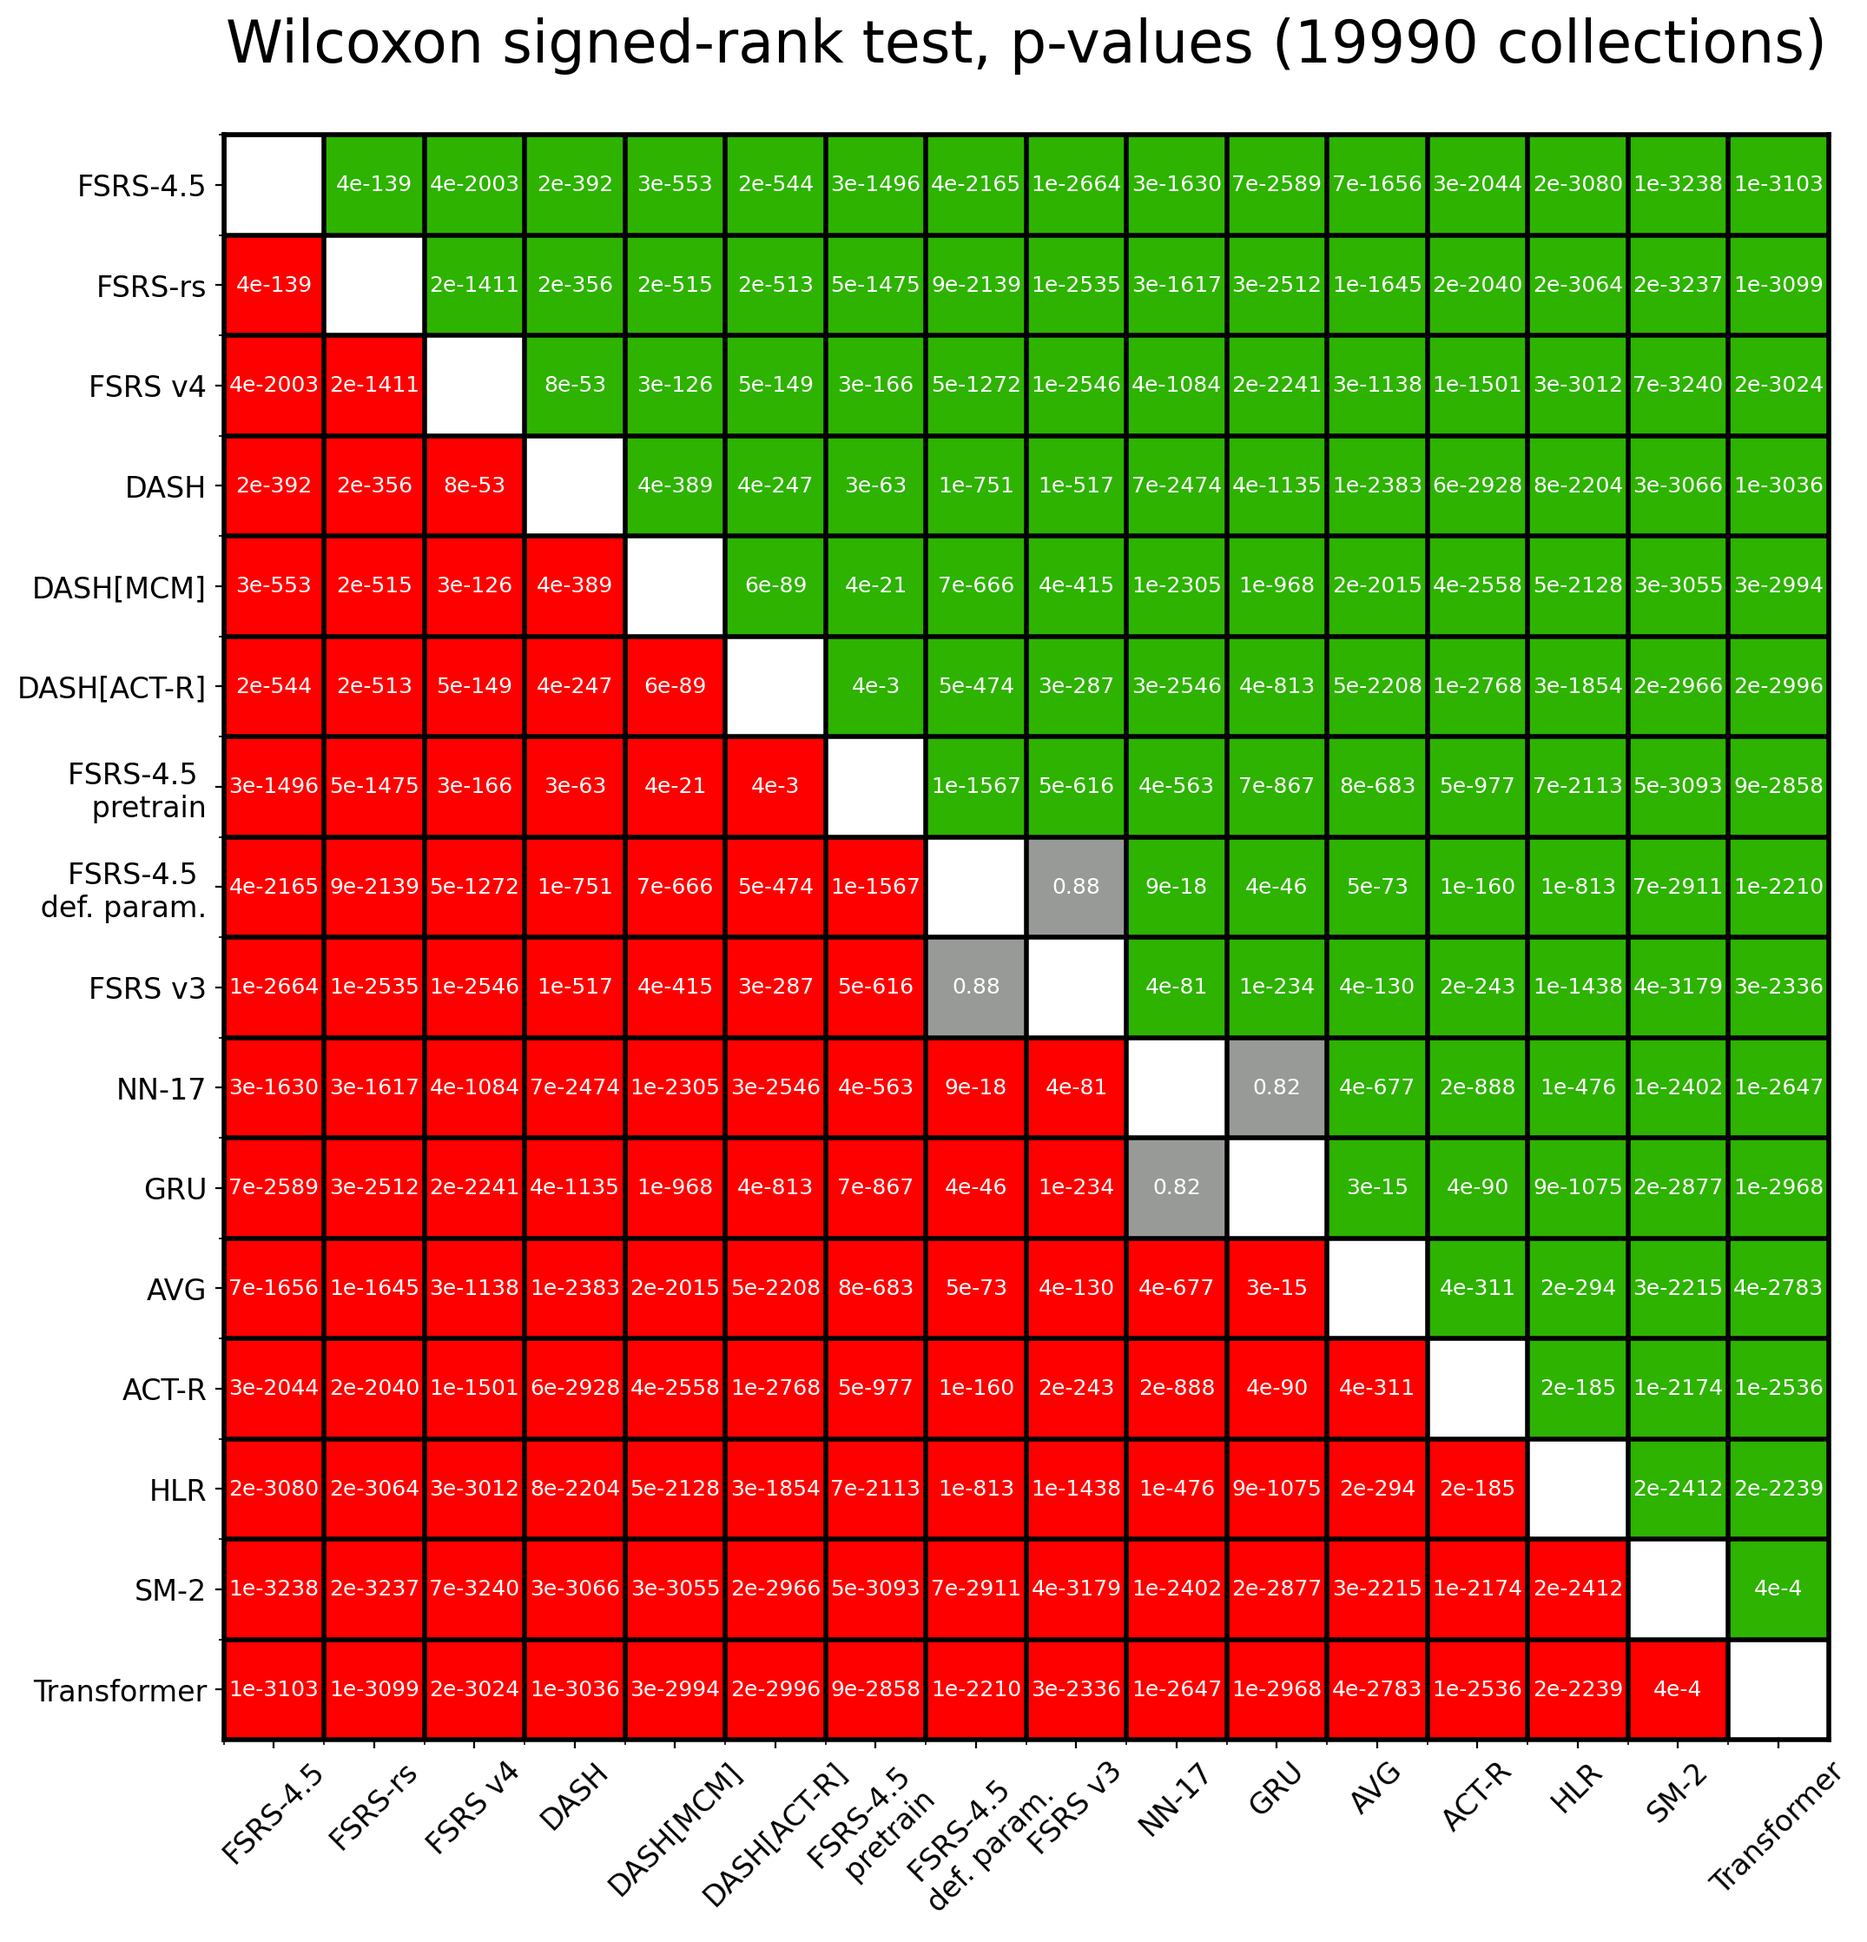
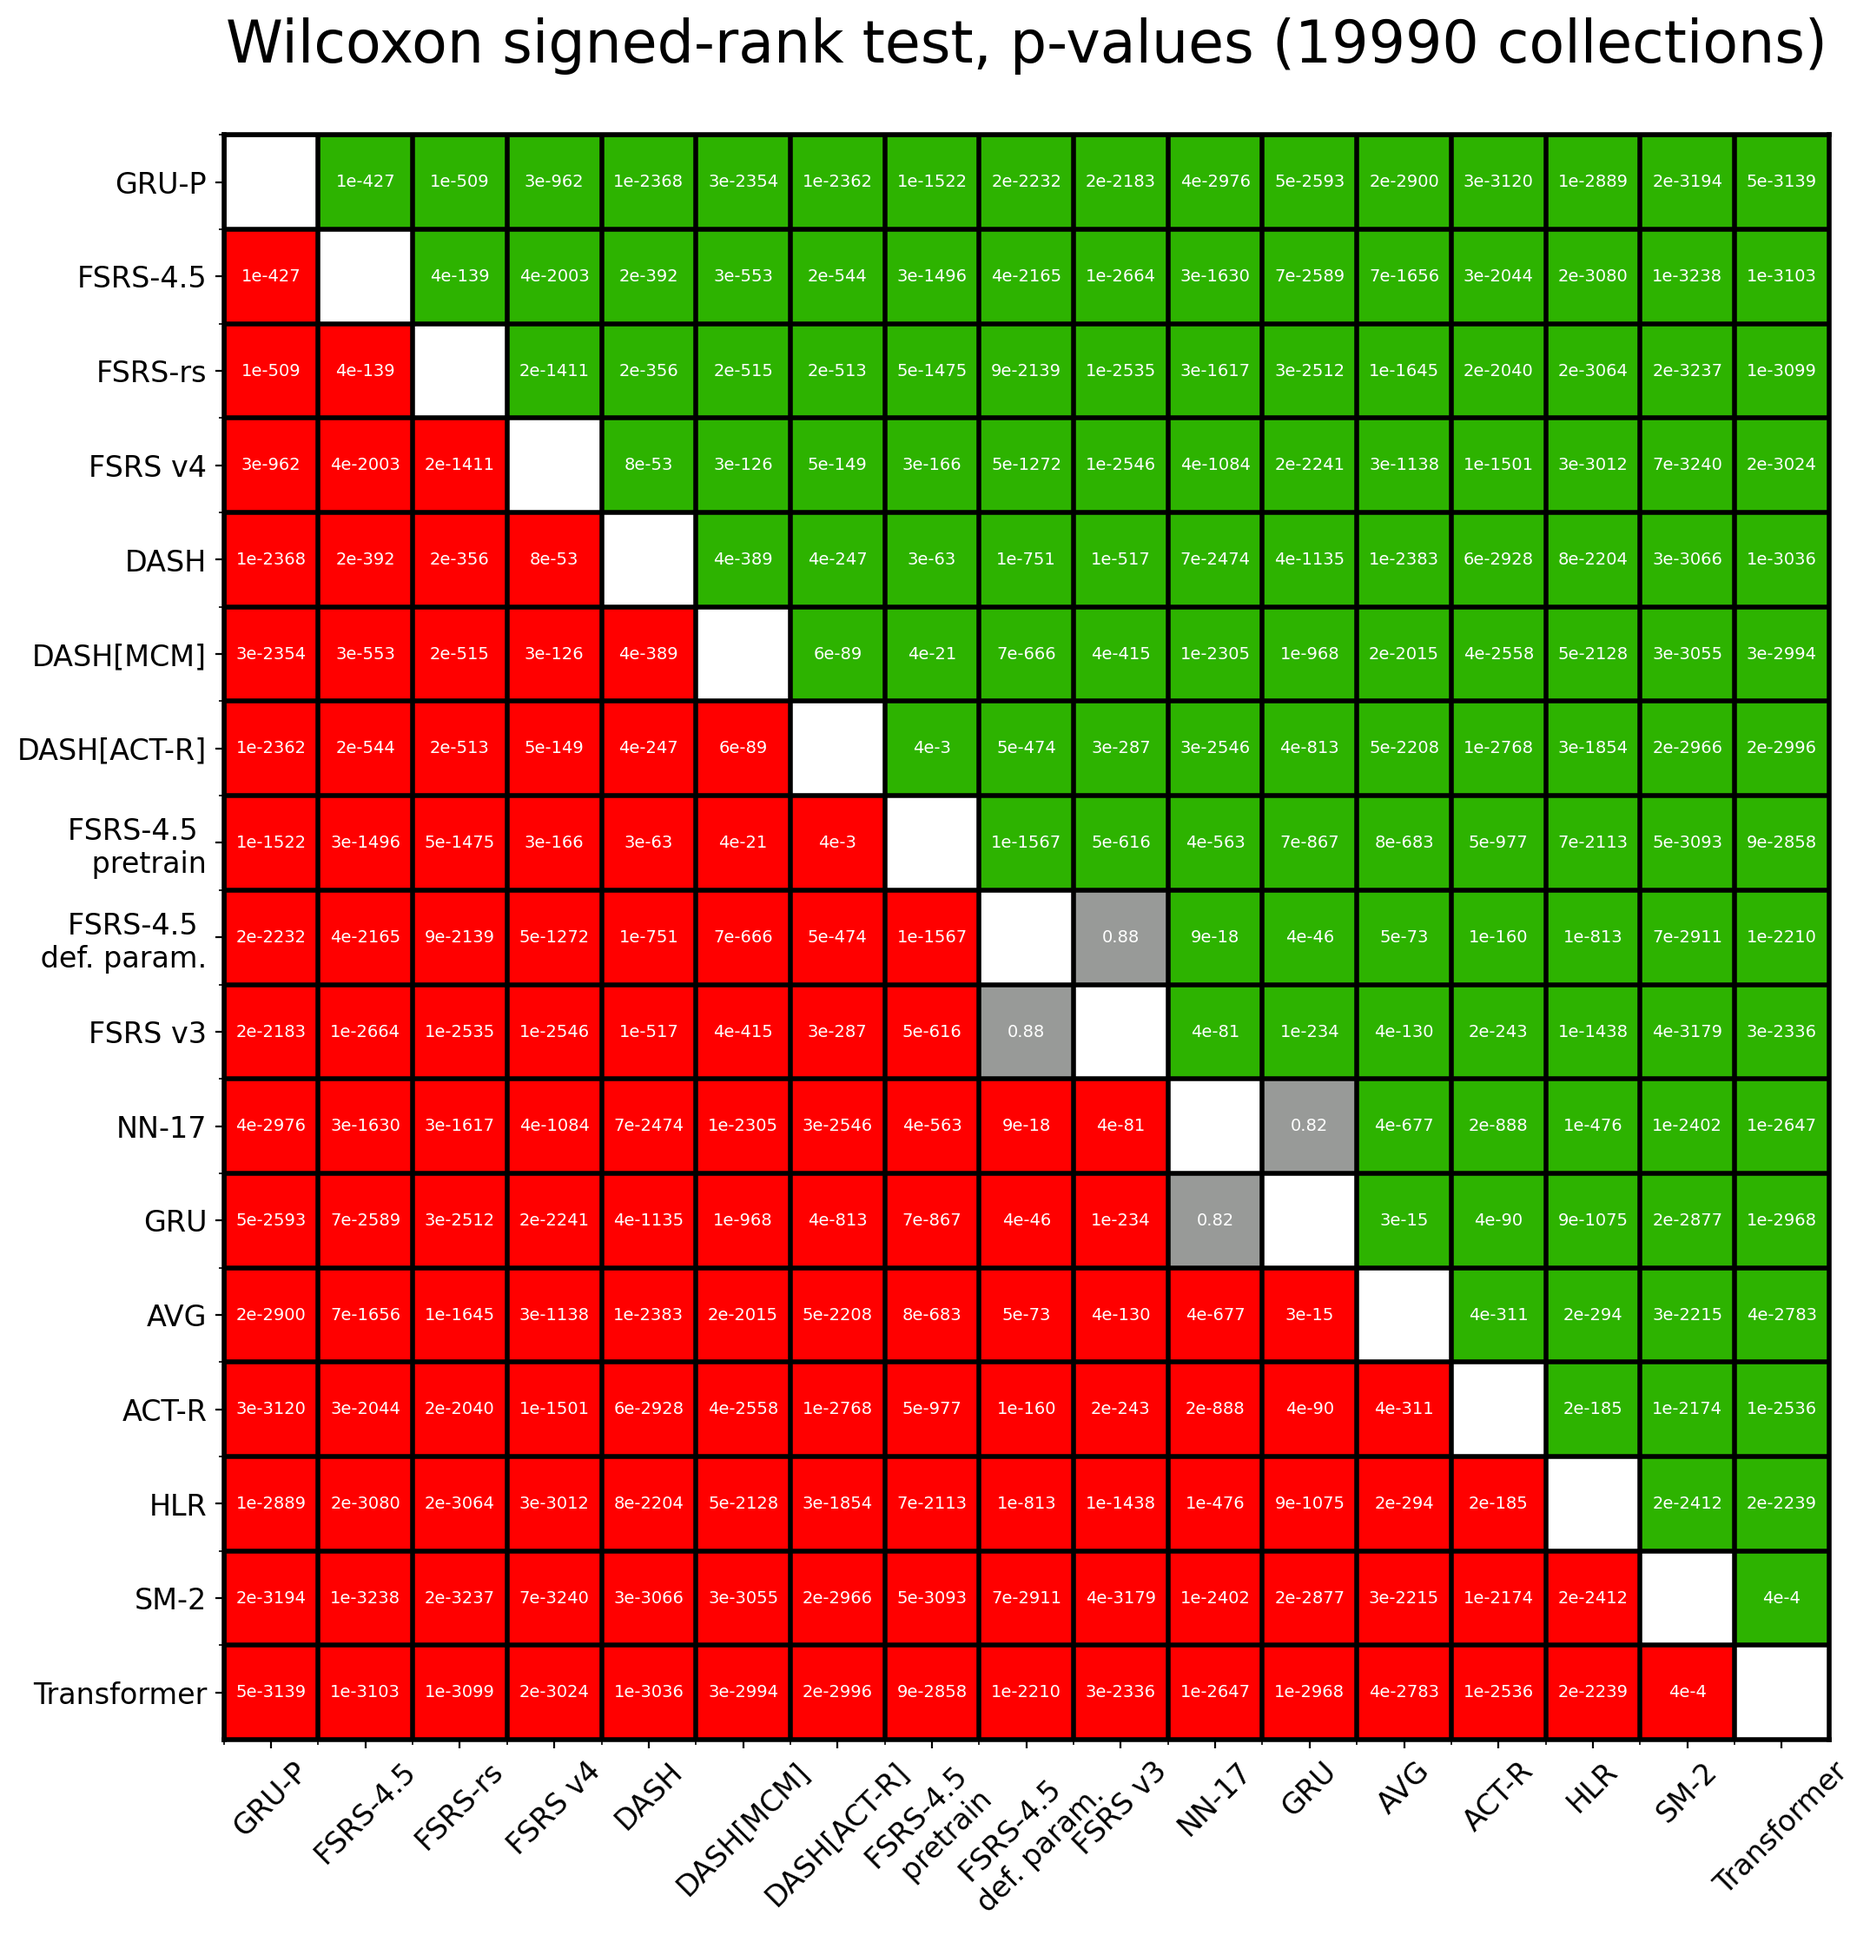
add GRU-P to significance table

diff --git a/significance_table.py b/significance_table.py
@@ -107,6 +107,7 @@ def format(exponent, n):
 
 if __name__ == "__main__":
     models = [
+        "GRU-P",
         "FSRS-4.5",
         "FSRS-rs",
         "FSRSv4",
@@ -242,7 +243,7 @@ if __name__ == "__main__":
                     ha="center",
                     va="center",
                     color="white",
-                    fontsize=9,
+                    fontsize=7,
                 )
 
     ax.set_xticks(np.arange(n), labels=models, fontsize=12, rotation=45)
